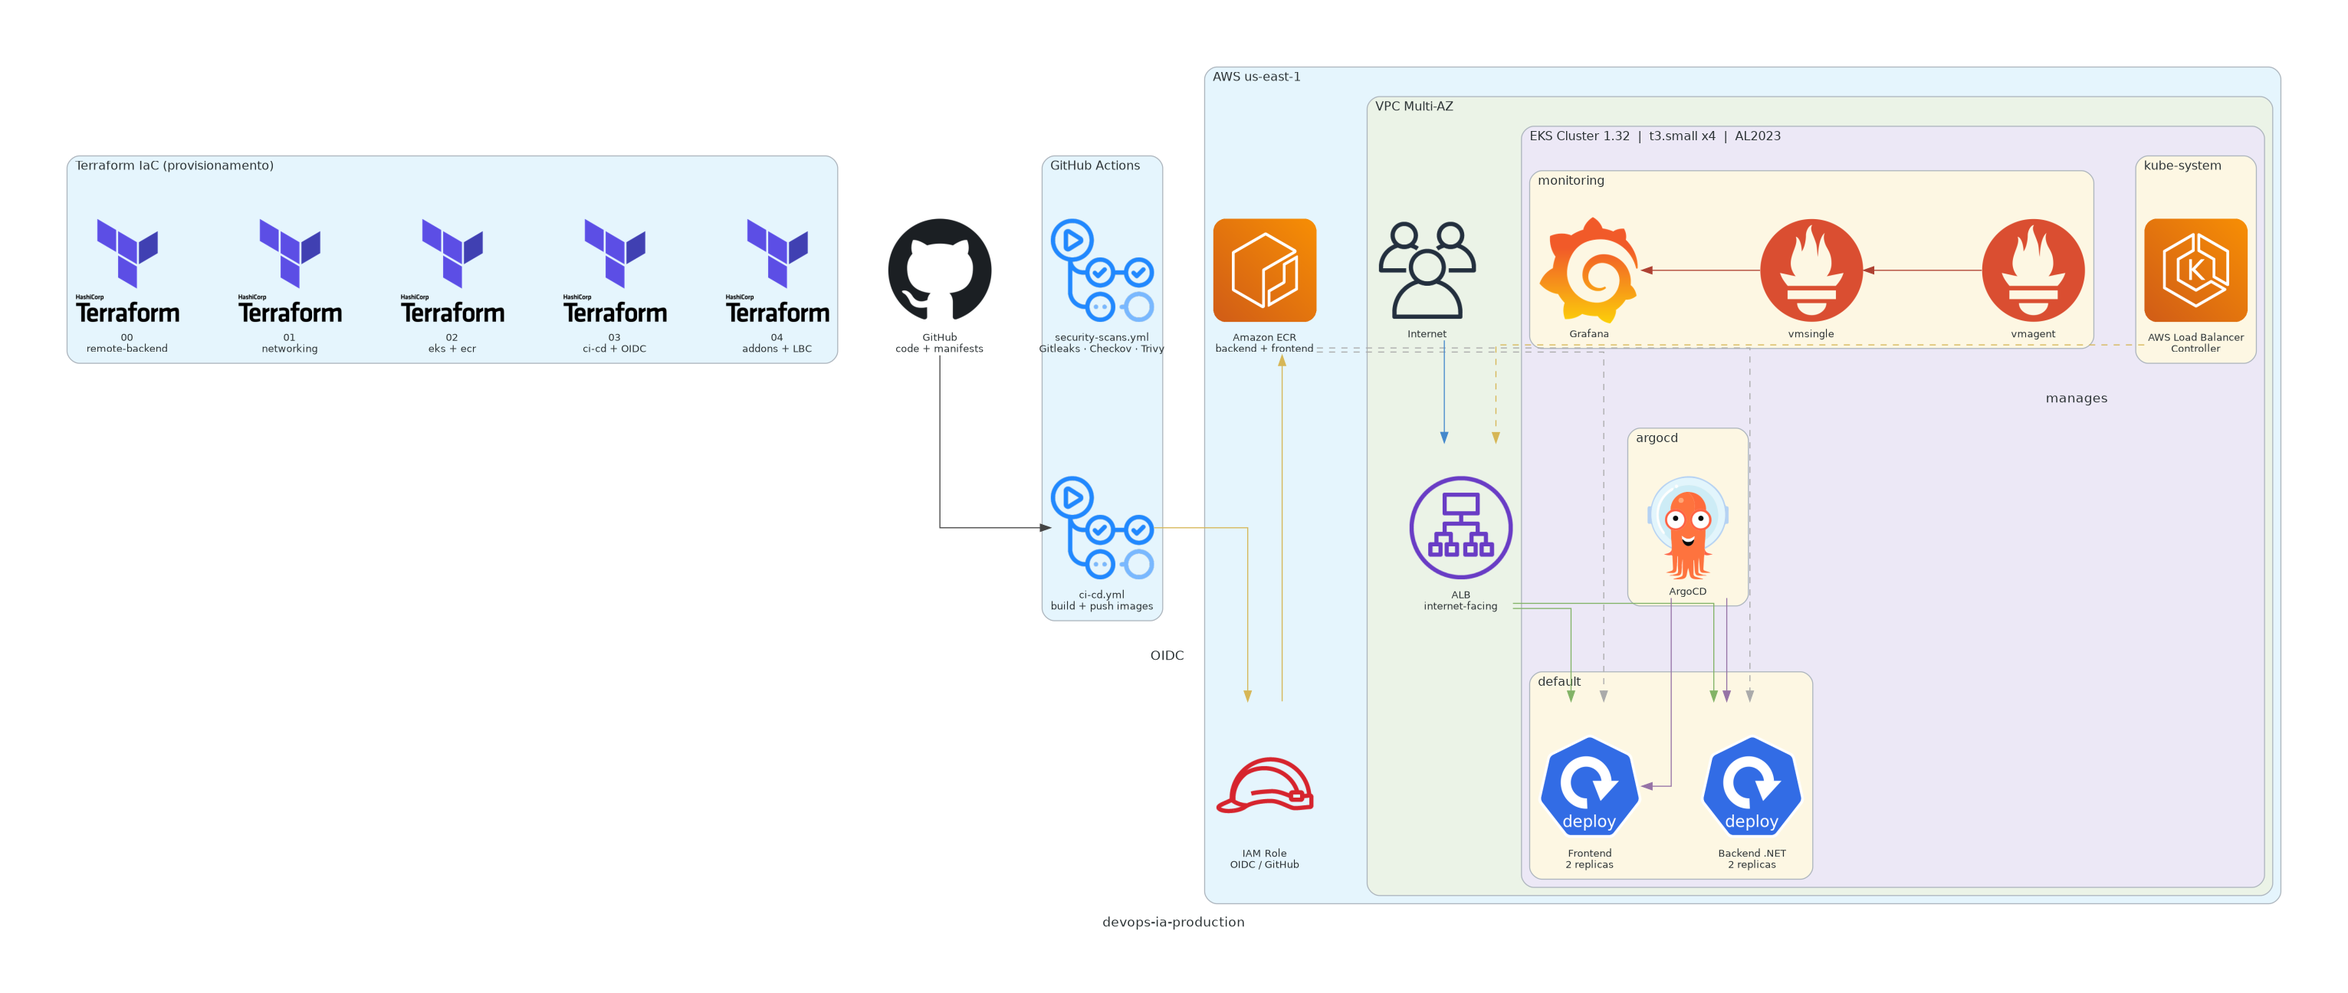
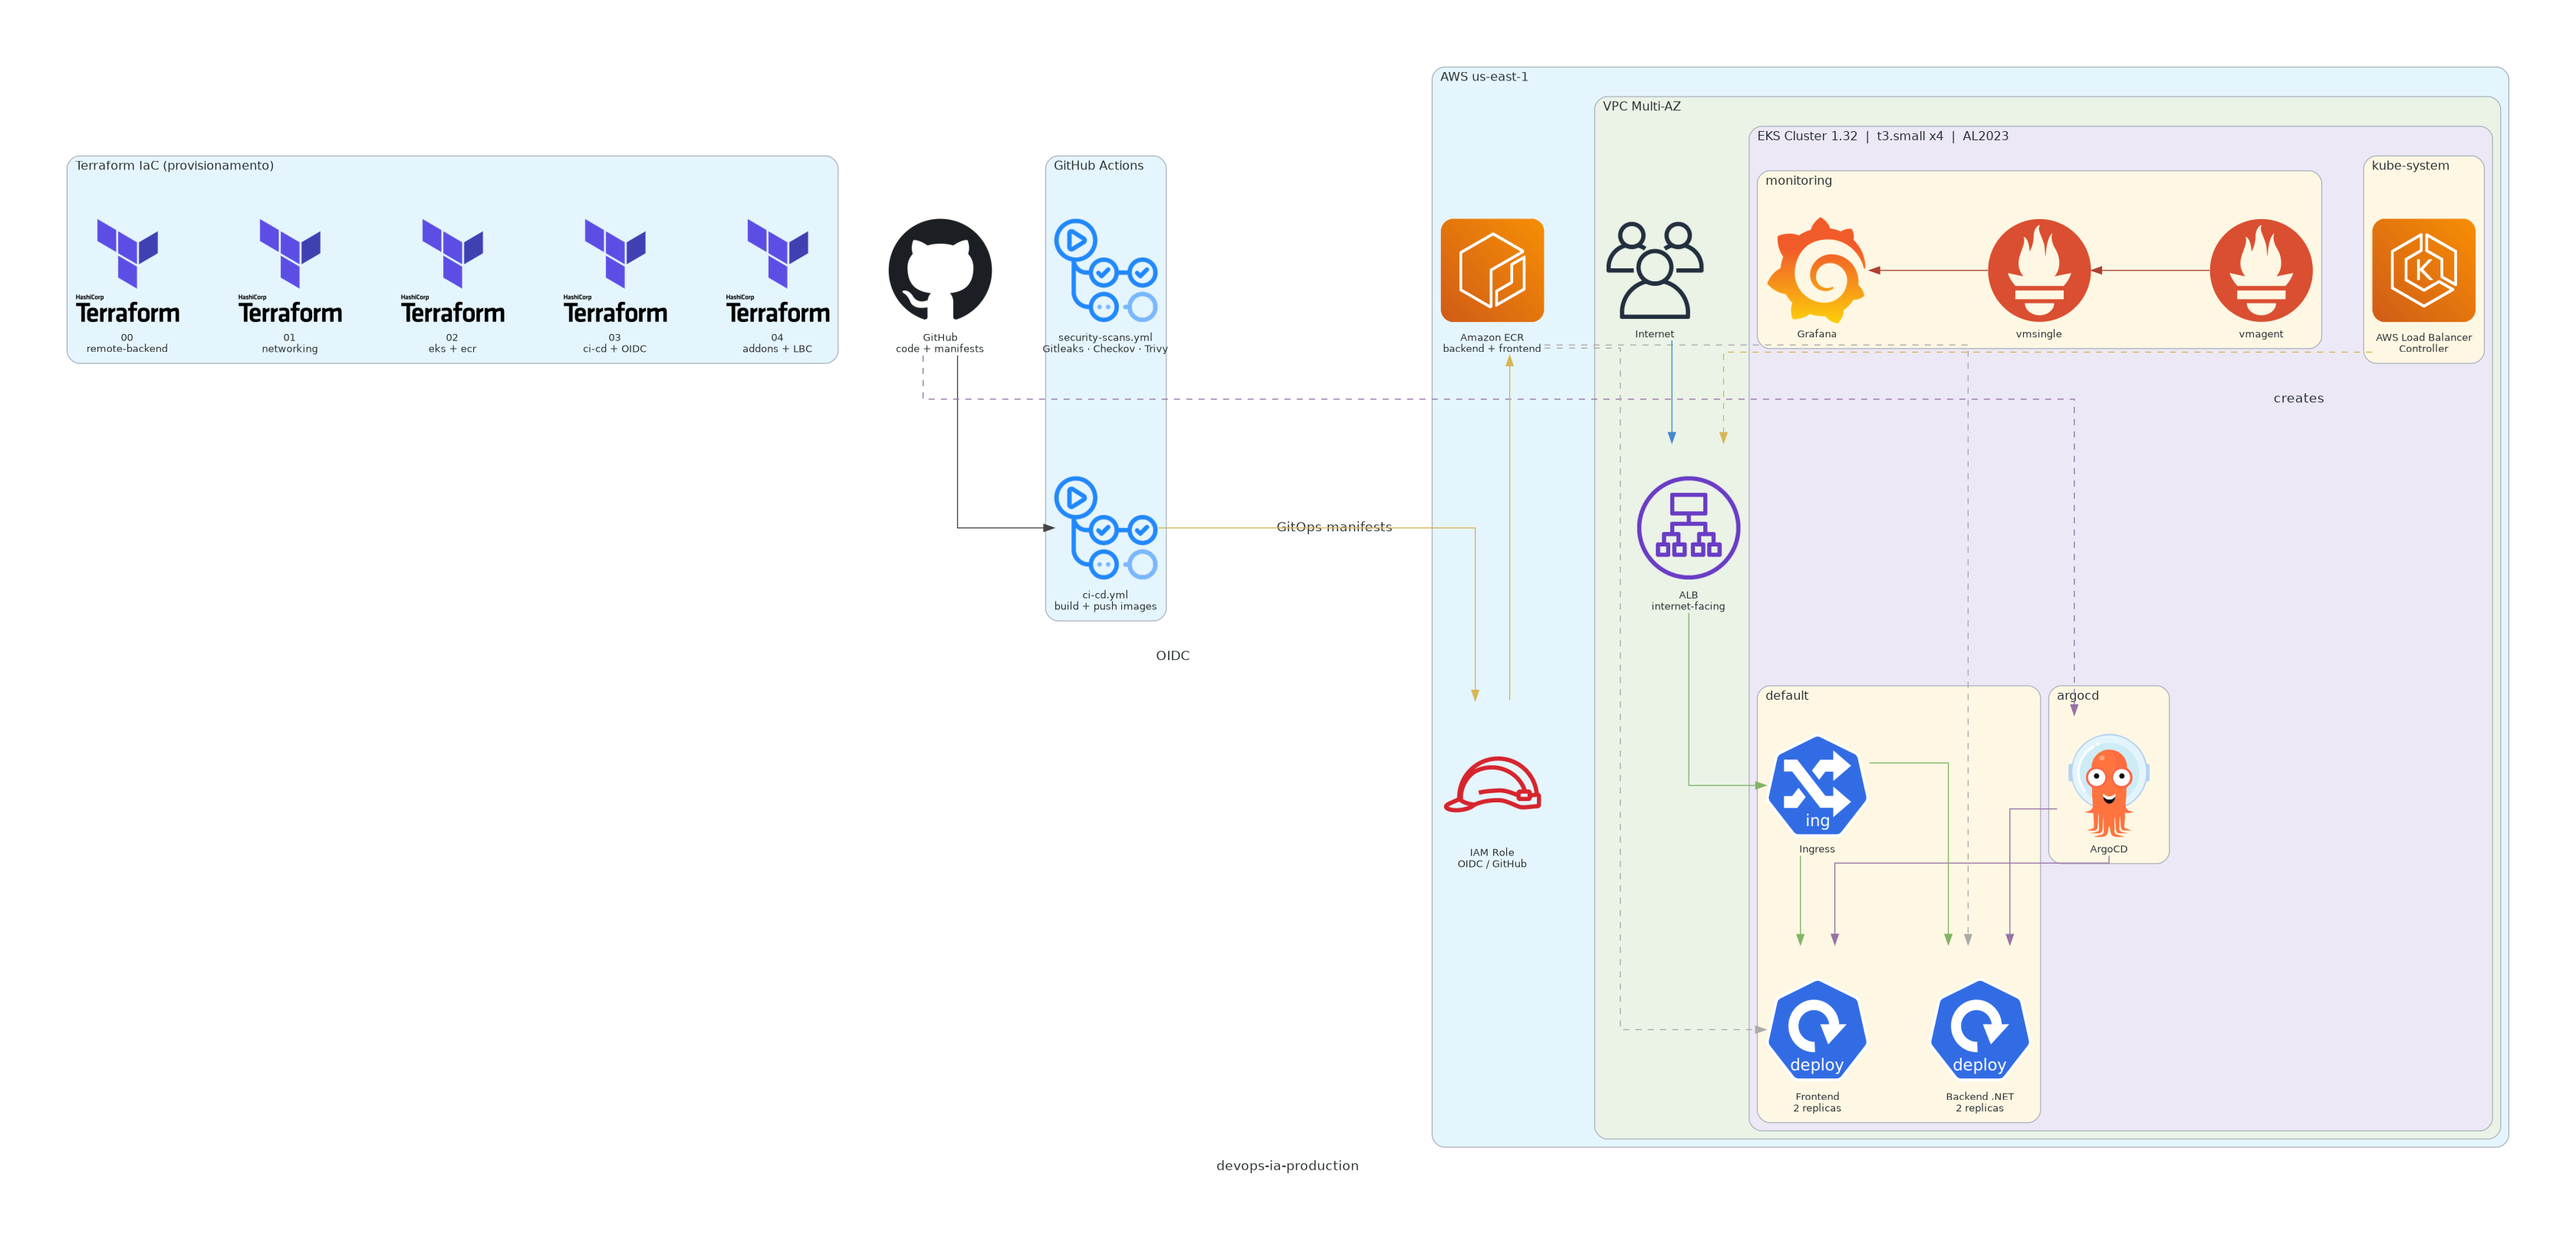
docs: add GitOps arrow, Ingress node and LBC creates label to diagram
Three readability gaps fixed based on review:
- Dashed edge GitHub -> ArgoCD labeled GitOps manifests makes the
  pull-based GitOps flow explicit for readers unfamiliar with ArgoCD
- Ingress node added inside default namespace showing the full traffic
  path: Internet -> ALB -> Ingress -> Frontend / Backend
- LBC edge label changed from manages to creates to clarify that the
  controller provisions the ALB from the Ingress resource

Changed region(s): [[0.0, 0.0309, 0.9925, 0.9568], [0.7754, 0.5556, 0.8064, 0.5864]]

diff --git a/docs/architecture/generate_diagram.py b/docs/architecture/generate_diagram.py
@@ -15,6 +15,7 @@ from diagrams.onprem.iac import Terraform
 from diagrams.onprem.monitoring import Grafana, Prometheus
 from diagrams.onprem.client import Users
 from diagrams.k8s.compute import Deployment
+from diagrams.k8s.network import Ingress
 
 OUTPUT = str(Path(__file__).parent / "architecture")
 
@@ -44,8 +45,7 @@ with Diagram(
     direction="TB",
 ):
     # ── Terraform IaC (provisionamento) ───────────────────────────────────────
-    # Declarados em ordem reversa: graphviz inverte a ordem de declaracao no
-    # layout LR-dentro-de-TB, entao declarar 04..00 resulta em 00..04 na tela.
+    # Declarados em ordem reversa: graphviz inverte no layout TB.
     with Cluster("Terraform IaC (provisionamento)"):
         tf4 = Terraform("04\naddons + LBC")
         tf3 = Terraform("03\nci-cd + OIDC")
@@ -78,33 +78,43 @@ with Diagram(
                     argo = Argocd("ArgoCD")
 
                 with Cluster("default"):
-                    fe = Deployment("Frontend\n2 replicas")
-                    be = Deployment("Backend .NET\n2 replicas")
+                    ing = Ingress("Ingress")
+                    fe  = Deployment("Frontend\n2 replicas")
+                    be  = Deployment("Backend .NET\n2 replicas")
 
                 with Cluster("monitoring"):
                     vmagent  = Prometheus("vmagent")
                     vmsingle = Prometheus("vmsingle")
                     grafana  = Grafana("Grafana")
 
-    # ── Push -> build -> deploy ───────────────────────────────────────────────
+    # ── Push -> build -> ECR ──────────────────────────────────────────────────
     repo >> Edge(color="#444444") >> cicd
     cicd >> Edge(label="OIDC", color="#d6b656") >> iam
     iam  >> Edge(color="#d6b656", constraint="false") >> ecr
 
-    # ── GitOps ────────────────────────────────────────────────────────────────
+    # ── GitOps: ArgoCD polls GitHub e aplica manifests ────────────────────────
+    repo >> Edge(
+        style="dashed", color="#9673a6",
+        label="GitOps manifests", constraint="false",
+    ) >> argo
     argo >> Edge(color="#9673a6") >> fe
     argo >> Edge(color="#9673a6") >> be
 
-    # ── Image pull (nao afeta layout) ─────────────────────────────────────────
+    # ── Image pull ────────────────────────────────────────────────────────────
     ecr >> Edge(style="dashed", color="#aaaaaa", constraint="false") >> fe
     ecr >> Edge(style="dashed", color="#aaaaaa", constraint="false") >> be
 
-    # ── Acesso externo via ALB ────────────────────────────────────────────────
-    users >> Edge(color="#4488cc") >> alb
-    lbc   >> Edge(label="manages", style="dashed", color="#d6b656", constraint="false") >> alb
-    alb   >> Edge(color="#82b366") >> fe
-    alb   >> Edge(color="#82b366") >> be
+    # ── LBC cria o ALB a partir do recurso Ingress ────────────────────────────
+    lbc >> Edge(
+        label="creates", style="dashed", color="#d6b656", constraint="false",
+    ) >> alb
 
-    # ── Monitoring (constraint=false para manter nos dentro do cluster) ────────
+    # ── Trafego externo: Internet -> ALB -> Ingress -> apps ───────────────────
+    users >> Edge(color="#4488cc") >> alb
+    alb   >> Edge(color="#82b366") >> ing
+    ing   >> Edge(color="#82b366") >> fe
+    ing   >> Edge(color="#82b366") >> be
+
+    # ── Monitoring ────────────────────────────────────────────────────────────
     vmagent  >> Edge(color="#ae4132", constraint="false") >> vmsingle
     vmsingle >> Edge(color="#ae4132", constraint="false") >> grafana
